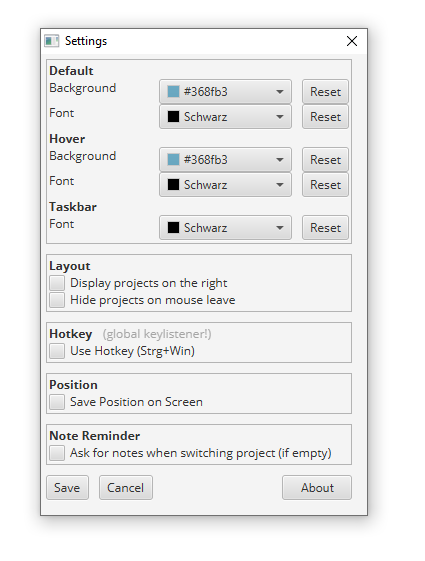
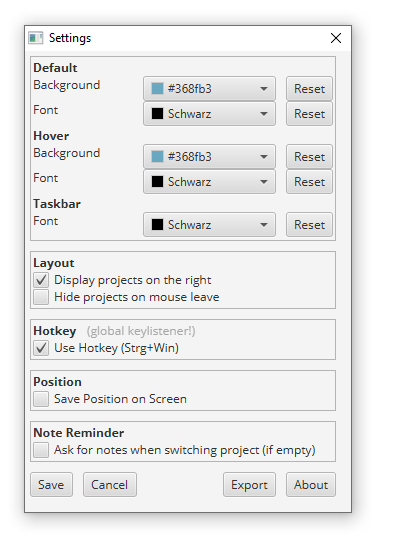
added DROP statement generation to export functionality updated Changelog and Readme to include new feature

Changed region(s): [[0.0297, 0.0309, 0.8911, 0.9564]]

diff --git a/src/main/java/de/doubleslash/keeptime/view/SettingsController.java b/src/main/java/de/doubleslash/keeptime/view/SettingsController.java
@@ -256,7 +256,7 @@ public class SettingsController {
             final String password = applicationProperties.getSpringDataSourcePassword();
 
             LOG.info("Exporting database to '{}'.", fileToSave);
-            Script.process(url, username, password, fileToSave.getAbsolutePath(), "", "");
+            Script.process(url, username, password, fileToSave.getAbsolutePath(), "DROP", "");
             LOG.info("Export done.");
 
             Alert informationDialog = new Alert(AlertType.INFORMATION);

diff --git a/README.md b/README.md
@@ -26,6 +26,7 @@ Create projects and choose if they are counted as 'work time'. Select the projec
 + Use Hotkey (`Strg`+`Win`): Change the project by using the Hotkey feature. A popup will appear at the mouse cursor.
 + Save Position on Screen: Remembers the last position of the Main UI on application start.
 + Ask for notes when switching project (if empty): Pops up a dialog to add notes if no notes are given and you try to switch projects
++ Export: export database for backup and later import (import currently not yet implemented)
 
 ### Reports:
 ![Report Screen](readme/images/reportDescription.png?raw=true "Report")

diff --git a/CHANGELOG.md b/CHANGELOG.md
@@ -6,6 +6,7 @@ All notable changes to this project will be documented in this file.
 
 ### Added
 
+- export functionality of database
 - search functionality
 - functionality to edit past work items
 - possibility to save position on screen
